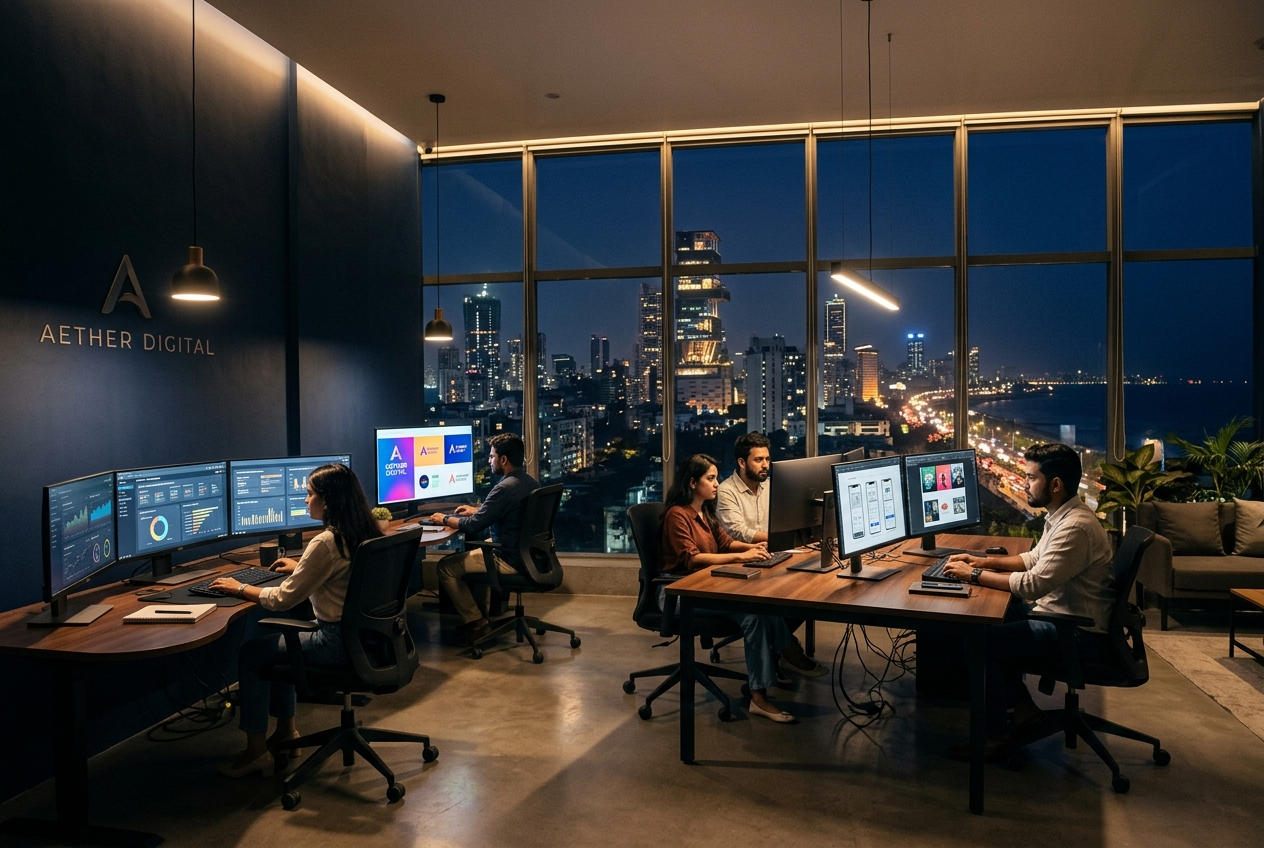
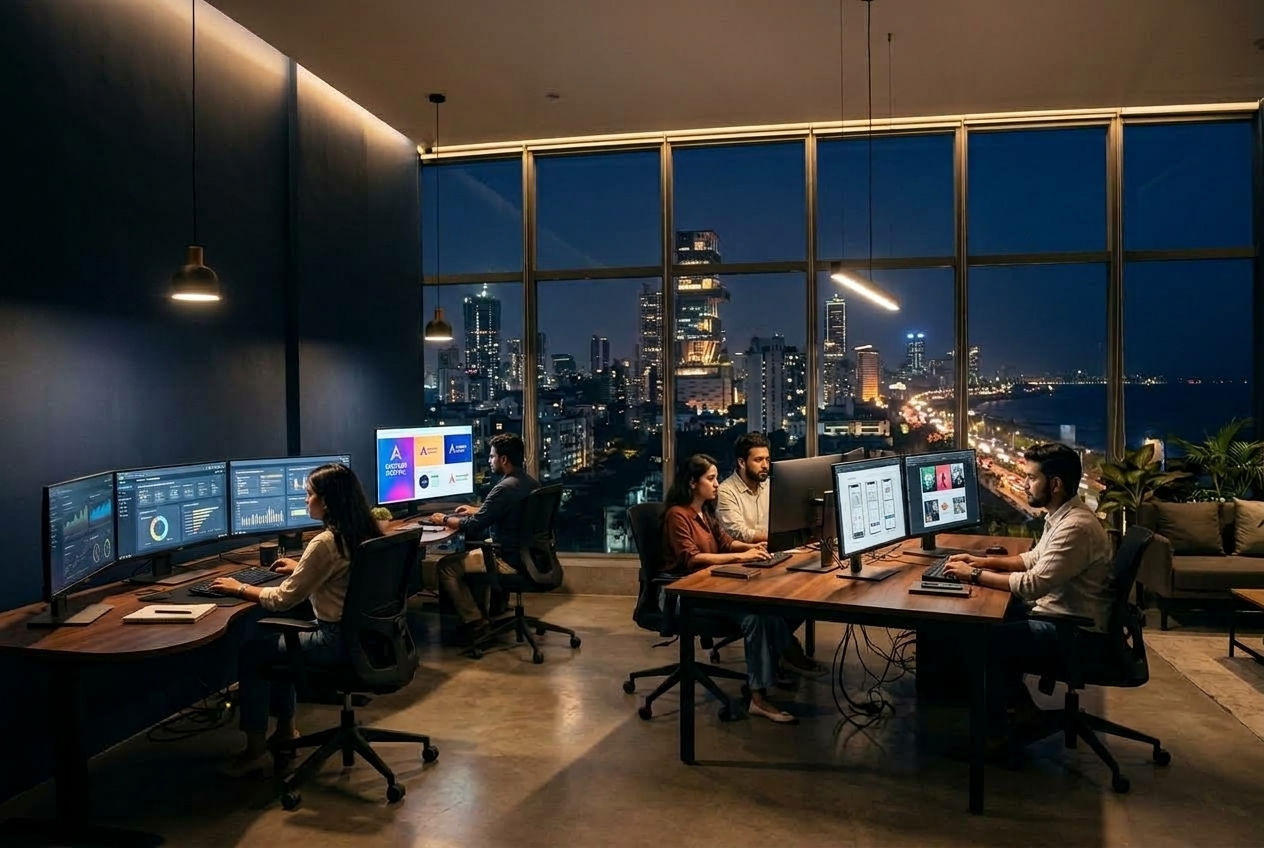
fix(about): remove all text and branding from hero image and remove overlay text tag

diff --git a/src/app/about/page.tsx b/src/app/about/page.tsx
@@ -597,11 +597,6 @@ export default function AboutPage() {
                       className={styles.cockpitImg}
                       sizes="(max-width: 900px) 100vw, 540px"
                     />
-                    <div className={styles.cockpitImgOverlay} />
-                    <div className={styles.cockpitFloatingTag}>
-                      <span className={styles.tagIcon}>📍</span>
-                      <span>Growth Lab &amp; Studio · Kharvela Nagar</span>
-                    </div>
                   </div>
 
                   {/* 3 Telemetry Live Gauges */}
